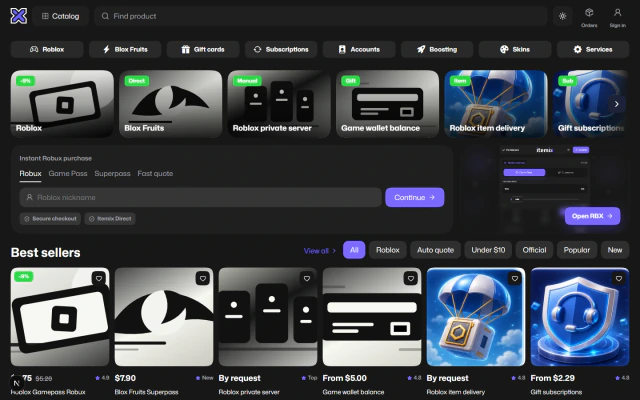
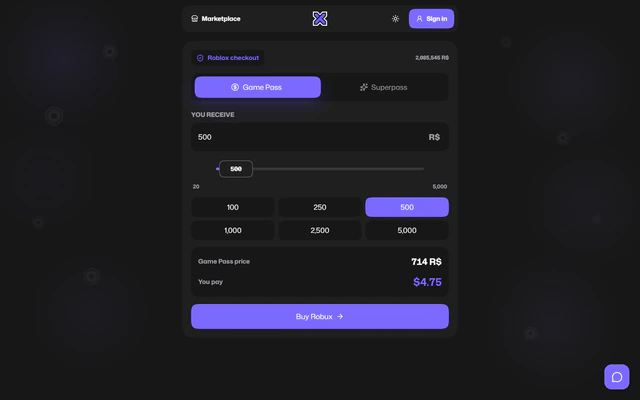
Replace outdated Itemix preview with current live RBX checkout

diff --git a/index.html b/index.html
@@ -3,7 +3,7 @@
 <head>
 <meta charset="utf-8"><meta name="viewport" content="width=device-width, initial-scale=1">
 <title>Никита Петров | Full-stack разработчик и автоматизация бизнеса</title><meta name="description" content="Ведущий Full-stack разработчик. Автоматизация бизнеса под ключ, веб-платформы и AI-интеграции. Itemix, Luvio, Beatprod, Silent Wallet.">
-<meta name="theme-color" content="#10131a"><meta property="og:title" content="Никита Петров | Full-stack разработчик и автоматизация бизнеса"><meta property="og:description" content="Ведущий Full-stack разработчик. Автоматизация бизнеса под ключ, веб-платформы и AI-интеграции. Itemix, Luvio, Beatprod, Silent Wallet."><meta property="og:type" content="website"><meta property="og:url" content="https://grekf3.github.io/"><meta property="og:image" content="https://grekf3.github.io/assets/social-preview.png"><meta name="twitter:card" content="summary_large_image">
+<meta name="theme-color" content="#10131a"><meta property="og:title" content="Никита Петров | Full-stack разработчик и автоматизация бизнеса"><meta property="og:description" content="Ведущий Full-stack разработчик. Автоматизация бизнеса под ключ, веб-платформы и AI-интеграции. Itemix, Luvio, Beatprod, Silent Wallet."><meta property="og:type" content="website"><meta property="og:url" content="https://grekf3.github.io/"><meta property="og:image" content="https://grekf3.github.io/assets/social-preview.png?v=20260916-rbx"><meta name="twitter:card" content="summary_large_image">
 <link rel="canonical" href="https://grekf3.github.io/"><link rel="alternate" hreflang="ru" href="https://grekf3.github.io/"><link rel="alternate" hreflang="en" href="https://grekf3.github.io/en/"><link rel="icon" href="/assets/favicon.png"><link rel="preload" as="font" href="/assets/fonts/onest-variable.woff2" type="font/woff2" crossorigin><link rel="stylesheet" href="/styles.css">
 <script>try{document.documentElement.dataset.theme=localStorage.getItem('portfolio-theme-v2')||'dark'}catch{}</script>
 
@@ -19,8 +19,8 @@
 <a class="skip-link" href="#main">К содержимому</a>
 <header class="site-header"><div class="shell nav-shell"><a class="brand" href="#top">Никита Петров<span class="brand-handle">/ GrekF3</span></a><nav id="main-nav" aria-label="Навигация"><a href="#work">Проекты</a><a href="#automation">Автоматизация</a><a href="#activity">GitHub</a><a href="#contact">Связаться</a></nav><div class="nav-controls"><a href="/en/" class="language" lang="en" aria-label="English version">EN</a><button id="theme-toggle" aria-label="Тема" type="button"><span aria-hidden="true">◐</span></button><button class="menu-toggle" type="button" aria-controls="main-nav" aria-expanded="false">Меню</button></div></div></header>
 <main id="main">
-<section class="hero shell" id="top"><div class="hero-copy"><p class="role">Lead Full-stack Developer</p><h1>Разработка продуктов.<br>Автоматизация бизнеса.</h1><p class="hero-intro">Создаю веб-продукты и автоматизирую работу бизнеса: продажи, CRM, контент и финансовые операции.</p><div class="hero-actions"><a class="button primary" href="#contact">Обсудить проект <span aria-hidden="true">↗</span></a><a class="button secondary" href="/downloads/Nikita-Petrov-CV.pdf" target="_blank" rel="noopener">Резюме PDF <span aria-hidden="true">↓</span></a></div><p class="experience">В разработке с 2022 года</p></div><div class="hero-showcase"><div class="showcase-tabs" role="group" aria-label="Выбрать продукт"><button type="button" data-showcase="itemix" aria-pressed="true">Itemix</button><button type="button" data-showcase="luvio" aria-pressed="false">Luvio</button><button type="button" data-showcase="beatprod" aria-pressed="false">Beatprod</button><button type="button" data-showcase="silent-wallet" aria-pressed="false">Silent</button></div><div class="showcase-stage"><a class="showcase-image" href="/assets/itemix.webp" data-image data-name="Itemix" aria-label="Itemix"><img id="showcase-img" src="/assets/itemix.webp" width="1440" height="900" alt="Itemix: Маркетплейс цифровых товаров" fetchpriority="high" decoding="async" srcset="/assets/itemix-640.webp 640w, /assets/itemix-960.webp 960w, /assets/itemix.webp 1440w" sizes="(max-width: 767px) calc(100vw - 40px), (max-width: 1023px) 736px, (max-width: 1440px) 43vw, 548px"></a><div class="showcase-caption"><div><strong id="showcase-title">Itemix</strong><p id="showcase-category">Маркетплейс цифровых товаров</p><p id="showcase-company">ITEMIX TECH LTD</p></div><a id="showcase-link" href="#itemix" class="text-link">Подробнее о проекте ↗</a></div></div></div></section>
-<section class="shell section work" id="work"><div class="section-heading" data-reveal><h2>Продукты, которые я веду</h2></div><article class="project" data-reveal id="itemix"><figure class="project-visual"><a class="image-link" href="/assets/itemix.webp" data-image data-name="Itemix" aria-label="Увеличить скриншот: Itemix"><img src="/assets/itemix.webp" width="1440" height="900" alt="Скриншот интерфейса: Itemix" loading="lazy" decoding="async" srcset="/assets/itemix-640.webp 640w, /assets/itemix-960.webp 960w, /assets/itemix.webp 1440w" sizes="(max-width: 767px) calc(100vw - 40px), (max-width: 1023px) 50vw, (max-width: 1440px) 52vw, 708px"></a><figcaption><span>Itemix</span><a href="/assets/itemix.webp" data-image data-name="Itemix">Увеличить скриншот <span aria-hidden="true">↗</span></a></figcaption></figure><div class="project-copy"><p class="project-category">Маркетплейс цифровых товаров</p><h3>Itemix</h3><p class="company">ITEMIX TECH LTD <span>· Ведущий разработчик</span></p><p class="project-summary">Витрина, кабинеты продавцов и управление заказами.</p><p>Связал поставщиков, каталог и оплату в единый процесс продажи. Автоматизировал обновление товаров и статусов заказов, добавил инструменты поддержки для менеджеров.</p><ul class="tags"><li>Python</li><li>Django</li><li>Next.js</li><li>PostgreSQL</li></ul><div class="project-links"><a class="text-link" href="https://itemix.co/" target="_blank" rel="noopener">itemix.co <span aria-hidden="true">↗</span></a></div></div></article><article class="project" data-reveal id="luvio"><figure class="project-visual"><a class="image-link" href="/assets/luvio.webp" data-image data-name="Luvio" aria-label="Увеличить скриншот: Luvio"><img src="/assets/luvio.webp" width="1440" height="900" alt="Скриншот интерфейса: Luvio" loading="lazy" decoding="async" srcset="/assets/luvio-640.webp 640w, /assets/luvio-960.webp 960w, /assets/luvio.webp 1440w" sizes="(max-width: 767px) calc(100vw - 40px), (max-width: 1023px) 50vw, (max-width: 1440px) 52vw, 708px"></a><figcaption><span>Luvio</span><a href="/assets/luvio.webp" data-image data-name="Luvio">Увеличить скриншот <span aria-hidden="true">↗</span></a></figcaption></figure><div class="project-copy"><p class="project-category">Платформа знакомств</p><h3>Luvio</h3><p class="company">LUVIO CLUB LIMITED <span>· Ведущий разработчик</span></p><p class="project-summary">От первой анкеты до совпадения и общения.</p><p>Разработал регистрацию, поиск, мэтчинг и чат. Внедрил AI-собеседников, сценарии общения, уведомления и инструменты модерации.</p><ul class="tags"><li>Python</li><li>Django</li><li>WebSocket</li><li>OpenAI API</li></ul><div class="project-links"><a class="text-link" href="https://luvio.club/" target="_blank" rel="noopener">luvio.club <span aria-hidden="true">↗</span></a></div></div></article><article class="project" data-reveal id="beatprod"><figure class="project-visual"><a class="image-link" href="/assets/beatprod.webp" data-image data-name="Beatprod" aria-label="Увеличить скриншот: Beatprod"><img src="/assets/beatprod.webp" width="1440" height="900" alt="Скриншот интерфейса: Beatprod" loading="lazy" decoding="async" srcset="/assets/beatprod-640.webp 640w, /assets/beatprod-960.webp 960w, /assets/beatprod.webp 1440w" sizes="(max-width: 767px) calc(100vw - 40px), (max-width: 1023px) 50vw, (max-width: 1440px) 52vw, 708px"></a><figcaption><span>Beatprod</span><a href="/assets/beatprod.webp" data-image data-name="Beatprod">Увеличить скриншот <span aria-hidden="true">↗</span></a></figcaption></figure><div class="project-copy"><p class="project-category">Маркетплейс для музыкантов</p><h3>Beatprod</h3><p class="company">Собственный продукт <span>· Ведущий разработчик</span></p><p class="project-summary">Продажа битов, сэмплов и музыкальных услуг.</p><p>Автоматизировал путь от оплаты до выдачи файлов и лицензий, подписки и распределение дохода. Добавил анализ аудио, AI-описания и создание видео для публикации на YouTube.</p><ul class="tags"><li>Python</li><li>Django</li><li>PostgreSQL</li><li>Stripe API</li></ul><div class="project-links"><a class="text-link" href="https://beatprod.com/" target="_blank" rel="noopener">beatprod.com <span aria-hidden="true">↗</span></a></div></div></article><article class="project" data-reveal id="silent-wallet"><figure class="project-visual"><a class="image-link" href="/assets/silent-wallet.webp" data-image data-name="Silent Wallet" aria-label="Увеличить скриншот: Silent Wallet"><img src="/assets/silent-wallet.webp" width="1440" height="900" alt="Скриншот интерфейса: Silent Wallet" loading="lazy" decoding="async" srcset="/assets/silent-wallet-640.webp 640w, /assets/silent-wallet-960.webp 960w, /assets/silent-wallet.webp 1440w" sizes="(max-width: 767px) calc(100vw - 40px), (max-width: 1023px) 50vw, (max-width: 1440px) 52vw, 708px"></a><figcaption><span>Silent Wallet</span><a href="/assets/silent-wallet.webp" data-image data-name="Silent Wallet">Увеличить скриншот <span aria-hidden="true">↗</span></a></figcaption></figure><div class="project-copy"><p class="project-category">Криптокошелёк с открытым кодом</p><h3>Silent Wallet</h3><p class="company">Собственный продукт <span>· Ведущий разработчик</span></p><p class="project-summary">Управление активами в пяти блокчейнах. Beta.</p><p>Разработал аккаунты, переводы, портфель и историю операций. Ключи хранятся локально в зашифрованном виде. В проекте есть обмены, мосты и оболочки для desktop и mobile.</p><ul class="tags"><li>TypeScript</li><li>Next.js</li><li>Tauri</li><li>Capacitor</li></ul><div class="project-links"><a class="text-link" href="https://swallet.site/" target="_blank" rel="noopener">swallet.site <span aria-hidden="true">↗</span></a><a class="text-link" href="https://github.com/GrekF3/Silent-Wallet">Исходный код ↗</a></div></div></article></section>
+<section class="hero shell" id="top"><div class="hero-copy"><p class="role">Lead Full-stack Developer</p><h1>Разработка продуктов.<br>Автоматизация бизнеса.</h1><p class="hero-intro">Создаю веб-продукты и автоматизирую работу бизнеса: продажи, CRM, контент и финансовые операции.</p><div class="hero-actions"><a class="button primary" href="#contact">Обсудить проект <span aria-hidden="true">↗</span></a><a class="button secondary" href="/downloads/Nikita-Petrov-CV.pdf" target="_blank" rel="noopener">Резюме PDF <span aria-hidden="true">↓</span></a></div><p class="experience">В разработке с 2022 года</p></div><div class="hero-showcase"><div class="showcase-tabs" role="group" aria-label="Выбрать продукт"><button type="button" data-showcase="itemix" aria-pressed="true">Itemix</button><button type="button" data-showcase="luvio" aria-pressed="false">Luvio</button><button type="button" data-showcase="beatprod" aria-pressed="false">Beatprod</button><button type="button" data-showcase="silent-wallet" aria-pressed="false">Silent</button></div><div class="showcase-stage"><a class="showcase-image" href="/assets/itemix.webp?v=20260916-rbx" data-image data-name="Itemix" aria-label="Itemix"><img id="showcase-img" src="/assets/itemix.webp?v=20260916-rbx" width="1440" height="900" alt="Itemix RBX: форма покупки Robux" fetchpriority="high" decoding="async" srcset="/assets/itemix-640.webp?v=20260916-rbx 640w, /assets/itemix-960.webp?v=20260916-rbx 960w, /assets/itemix.webp?v=20260916-rbx 1440w" sizes="(max-width: 767px) calc(100vw - 40px), (max-width: 1023px) 736px, (max-width: 1440px) 43vw, 548px"></a><div class="showcase-caption"><div><strong id="showcase-title">Itemix</strong><p id="showcase-category">Маркетплейс цифровых товаров</p><p id="showcase-company">ITEMIX TECH LTD</p></div><a id="showcase-link" href="#itemix" class="text-link">Подробнее о проекте ↗</a></div></div></div></section>
+<section class="shell section work" id="work"><div class="section-heading" data-reveal><h2>Продукты, которые я веду</h2></div><article class="project" data-reveal id="itemix"><figure class="project-visual"><a class="image-link" href="/assets/itemix.webp?v=20260916-rbx" data-image data-name="Itemix" aria-label="Увеличить скриншот: Itemix"><img src="/assets/itemix.webp?v=20260916-rbx" width="1440" height="900" alt="Itemix RBX: форма покупки Robux" loading="lazy" decoding="async" srcset="/assets/itemix-640.webp?v=20260916-rbx 640w, /assets/itemix-960.webp?v=20260916-rbx 960w, /assets/itemix.webp?v=20260916-rbx 1440w" sizes="(max-width: 767px) calc(100vw - 40px), (max-width: 1023px) 50vw, (max-width: 1440px) 52vw, 708px"></a><figcaption><span>Itemix · RBX</span><a href="/assets/itemix.webp?v=20260916-rbx" data-image data-name="Itemix">Увеличить скриншот <span aria-hidden="true">↗</span></a></figcaption></figure><div class="project-copy"><p class="project-category">Маркетплейс цифровых товаров</p><h3>Itemix</h3><p class="company">ITEMIX TECH LTD <span>· Ведущий разработчик</span></p><p class="project-summary">Витрина, кабинеты продавцов и управление заказами.</p><p>Связал поставщиков, каталог и оплату в единый процесс продажи. Автоматизировал обновление товаров и статусов заказов, добавил инструменты поддержки для менеджеров.</p><ul class="tags"><li>Python</li><li>Django</li><li>Next.js</li><li>PostgreSQL</li></ul><div class="project-links"><a class="text-link" href="https://itemix.co/" target="_blank" rel="noopener">itemix.co <span aria-hidden="true">↗</span></a></div></div></article><article class="project" data-reveal id="luvio"><figure class="project-visual"><a class="image-link" href="/assets/luvio.webp" data-image data-name="Luvio" aria-label="Увеличить скриншот: Luvio"><img src="/assets/luvio.webp" width="1440" height="900" alt="Скриншот интерфейса: Luvio" loading="lazy" decoding="async" srcset="/assets/luvio-640.webp 640w, /assets/luvio-960.webp 960w, /assets/luvio.webp 1440w" sizes="(max-width: 767px) calc(100vw - 40px), (max-width: 1023px) 50vw, (max-width: 1440px) 52vw, 708px"></a><figcaption><span>Luvio</span><a href="/assets/luvio.webp" data-image data-name="Luvio">Увеличить скриншот <span aria-hidden="true">↗</span></a></figcaption></figure><div class="project-copy"><p class="project-category">Платформа знакомств</p><h3>Luvio</h3><p class="company">LUVIO CLUB LIMITED <span>· Ведущий разработчик</span></p><p class="project-summary">От первой анкеты до совпадения и общения.</p><p>Разработал регистрацию, поиск, мэтчинг и чат. Внедрил AI-собеседников, сценарии общения, уведомления и инструменты модерации.</p><ul class="tags"><li>Python</li><li>Django</li><li>WebSocket</li><li>OpenAI API</li></ul><div class="project-links"><a class="text-link" href="https://luvio.club/" target="_blank" rel="noopener">luvio.club <span aria-hidden="true">↗</span></a></div></div></article><article class="project" data-reveal id="beatprod"><figure class="project-visual"><a class="image-link" href="/assets/beatprod.webp" data-image data-name="Beatprod" aria-label="Увеличить скриншот: Beatprod"><img src="/assets/beatprod.webp" width="1440" height="900" alt="Скриншот интерфейса: Beatprod" loading="lazy" decoding="async" srcset="/assets/beatprod-640.webp 640w, /assets/beatprod-960.webp 960w, /assets/beatprod.webp 1440w" sizes="(max-width: 767px) calc(100vw - 40px), (max-width: 1023px) 50vw, (max-width: 1440px) 52vw, 708px"></a><figcaption><span>Beatprod</span><a href="/assets/beatprod.webp" data-image data-name="Beatprod">Увеличить скриншот <span aria-hidden="true">↗</span></a></figcaption></figure><div class="project-copy"><p class="project-category">Маркетплейс для музыкантов</p><h3>Beatprod</h3><p class="company">Собственный продукт <span>· Ведущий разработчик</span></p><p class="project-summary">Продажа битов, сэмплов и музыкальных услуг.</p><p>Автоматизировал путь от оплаты до выдачи файлов и лицензий, подписки и распределение дохода. Добавил анализ аудио, AI-описания и создание видео для публикации на YouTube.</p><ul class="tags"><li>Python</li><li>Django</li><li>PostgreSQL</li><li>Stripe API</li></ul><div class="project-links"><a class="text-link" href="https://beatprod.com/" target="_blank" rel="noopener">beatprod.com <span aria-hidden="true">↗</span></a></div></div></article><article class="project" data-reveal id="silent-wallet"><figure class="project-visual"><a class="image-link" href="/assets/silent-wallet.webp" data-image data-name="Silent Wallet" aria-label="Увеличить скриншот: Silent Wallet"><img src="/assets/silent-wallet.webp" width="1440" height="900" alt="Скриншот интерфейса: Silent Wallet" loading="lazy" decoding="async" srcset="/assets/silent-wallet-640.webp 640w, /assets/silent-wallet-960.webp 960w, /assets/silent-wallet.webp 1440w" sizes="(max-width: 767px) calc(100vw - 40px), (max-width: 1023px) 50vw, (max-width: 1440px) 52vw, 708px"></a><figcaption><span>Silent Wallet</span><a href="/assets/silent-wallet.webp" data-image data-name="Silent Wallet">Увеличить скриншот <span aria-hidden="true">↗</span></a></figcaption></figure><div class="project-copy"><p class="project-category">Криптокошелёк с открытым кодом</p><h3>Silent Wallet</h3><p class="company">Собственный продукт <span>· Ведущий разработчик</span></p><p class="project-summary">Управление активами в пяти блокчейнах. Beta.</p><p>Разработал аккаунты, переводы, портфель и историю операций. Ключи хранятся локально в зашифрованном виде. В проекте есть обмены, мосты и оболочки для desktop и mobile.</p><ul class="tags"><li>TypeScript</li><li>Next.js</li><li>Tauri</li><li>Capacitor</li></ul><div class="project-links"><a class="text-link" href="https://swallet.site/" target="_blank" rel="noopener">swallet.site <span aria-hidden="true">↗</span></a><a class="text-link" href="https://github.com/GrekF3/Silent-Wallet">Исходный код ↗</a></div></div></article></section>
 <section class="section automation" id="automation"><div class="shell"><div class="section-heading" data-reveal><h2>Автоматизация под ключ</h2><p>Продажи, CRM, контент и финансовые операции.</p></div><article class="project news" data-reveal><figure class="project-visual"><a class="image-link" href="/assets/theone-news.webp" data-image data-name="theOne News" aria-label="Увеличить скриншот: theOne News"><img src="/assets/theone-news.webp" width="1440" height="900" alt="Скриншот интерфейса: theOne News" loading="lazy" decoding="async" srcset="/assets/theone-news-640.webp 640w, /assets/theone-news-960.webp 960w, /assets/theone-news.webp 1440w" sizes="(max-width: 767px) calc(100vw - 40px), (max-width: 1023px) 50vw, (max-width: 1440px) 52vw, 708px"></a><figcaption><span>theOne News</span><a href="/assets/theone-news.webp" data-image data-name="theOne News">Увеличить скриншот <span aria-hidden="true">↗</span></a></figcaption></figure><div class="project-copy"><p class="project-category">Сбор и подготовка новостей</p><h3>theOne News</h3><p>Разработал рабочее место редактора: система собирает материалы с сайтов, из новостных лент, Telegram, Facebook и Instagram, в том числе через браузер.</p><p>Удаляет дубли, проверяет материалы по правилам, переводит и перерабатывает текст с AI. Редактор получает готовый к проверке материал с заголовком, медиа и ссылками на источники.</p><ul class="tags"><li>Python</li><li>FastAPI</li><li>Playwright</li><li>OpenAI API</li></ul></div></article><div class="automation-more" data-reveal><article><h3>Работа с CRM-системами</h3><p>Автоматизировал обновление карточек клиентов, удаление дублей, распределение заявок и синхронизацию с таблицами. Комментарии и данные менеджеров сохраняются.</p><ul class="tags"><li>JavaScript</li><li>REST API</li><li>Google Sheets API</li></ul></article><article><h3>Криптовалютные продукты</h3><p>Разработал торговые терминалы, сканеры рынка и ботов. Объединил стратегии, позиции и сделки в интерфейсах с автоматизацией операций и контролем рисков.</p><ul class="tags"><li>Python</li><li>FastAPI</li><li>React</li><li>Electron</li><li>WebSocket</li></ul></article></div></div></section>
 <section class="section shell" id="activity"><div class="section-heading" data-reveal><h2>Разработка в цифрах</h2><p>Активность из публичного профиля GitHub.</p></div><div class="activity-layout"><div class="stats-summary"><div class="stat"><strong id="contribution-total">1 806</strong><span>действий за период</span></div><div class="stat"><strong id="active-days">253</strong><span>дней с активностью</span></div><p id="stats-period">14.09.2025 - 16.09.2026</p><a class="text-link" href="https://github.com/GrekF3">Профиль GitHub ↗</a></div><div class="activity-charts"><div class="chart-tabs" role="group" aria-label="GitHub"><button data-chart="calendar" aria-pressed="true">Календарь</button><button data-chart="months" aria-pressed="false">По месяцам</button></div><div id="chart-calendar" class="chart-panel"><a href="https://github.com/GrekF3" class="dynamic-chart" aria-label="Годовой календарь GitHub, прокрутка по горизонтали"><img id="activity-graph" src="/assets/github-activity.svg" data-live-src="https://ghchart.rshah.org/2459e0/GrekF3" alt="Публичный календарь GitHub" width="663" height="104" loading="lazy"></a><p class="chart-credit"><a href="https://github.com/2016rshah/githubchart-api">GitHub Chart ↗</a></p></div><div id="chart-months" class="chart-panel" hidden><div id="monthly-chart"></div></div><p class="stats-note">Contributions: коммиты, pull request, issues и другая активность GitHub. Включена обезличенная активность приватных проектов.</p><noscript><p>Актуальная активность доступна в профиле GitHub.</p></noscript></div></div></section>
 <section class="section shell stack-section" id="stack"><div class="section-heading" data-reveal><h2>Рабочий стек</h2><p>Технологии, на которых построены эти продукты.</p></div><dl class="stack-list" data-reveal><div><dt>Backend</dt><dd>Python, Django, Django REST Framework, FastAPI, PostgreSQL, Redis, Celery</dd></div><div><dt>Frontend</dt><dd>TypeScript, React, Next.js</dd></div><div><dt>Интеграции и запуск</dt><dd>REST API, WebSocket, OpenAI API, Telegram Bot API, Playwright, Docker, Nginx, GitHub Actions</dd></div></dl></section>

diff --git a/en/index.html b/en/index.html
@@ -3,7 +3,7 @@
 <head>
 <meta charset="utf-8"><meta name="viewport" content="width=device-width, initial-scale=1">
 <title>Nikita Petrov | Full-stack development & business automation</title><meta name="description" content="Lead Full-stack Developer. End-to-end business automation, web platforms and AI integrations. Itemix, Luvio, Beatprod, Silent Wallet.">
-<meta name="theme-color" content="#10131a"><meta property="og:title" content="Nikita Petrov | Full-stack development & business automation"><meta property="og:description" content="Lead Full-stack Developer. End-to-end business automation, web platforms and AI integrations. Itemix, Luvio, Beatprod, Silent Wallet."><meta property="og:type" content="website"><meta property="og:url" content="https://grekf3.github.io/en/"><meta property="og:image" content="https://grekf3.github.io/assets/social-preview.png"><meta name="twitter:card" content="summary_large_image">
+<meta name="theme-color" content="#10131a"><meta property="og:title" content="Nikita Petrov | Full-stack development & business automation"><meta property="og:description" content="Lead Full-stack Developer. End-to-end business automation, web platforms and AI integrations. Itemix, Luvio, Beatprod, Silent Wallet."><meta property="og:type" content="website"><meta property="og:url" content="https://grekf3.github.io/en/"><meta property="og:image" content="https://grekf3.github.io/assets/social-preview.png?v=20260916-rbx"><meta name="twitter:card" content="summary_large_image">
 <link rel="canonical" href="https://grekf3.github.io/en/"><link rel="alternate" hreflang="ru" href="https://grekf3.github.io/"><link rel="alternate" hreflang="en" href="https://grekf3.github.io/en/"><link rel="icon" href="/assets/favicon.png"><link rel="preload" as="font" href="/assets/fonts/onest-variable.woff2" type="font/woff2" crossorigin><link rel="stylesheet" href="/styles.css">
 <script>try{document.documentElement.dataset.theme=localStorage.getItem('portfolio-theme-v2')||'dark'}catch{}</script>
 
@@ -19,8 +19,8 @@
 <a class="skip-link" href="#main">Skip to content</a>
 <header class="site-header"><div class="shell nav-shell"><a class="brand" href="#top">Nikita Petrov<span class="brand-handle">/ GrekF3</span></a><nav id="main-nav" aria-label="Navigation"><a href="#work">Products</a><a href="#automation">Automation</a><a href="#activity">GitHub</a><a href="#contact">Contact</a></nav><div class="nav-controls"><a href="/" class="language" lang="ru" aria-label="Русская версия">RU</a><button id="theme-toggle" aria-label="Theme" type="button"><span aria-hidden="true">◐</span></button><button class="menu-toggle" type="button" aria-controls="main-nav" aria-expanded="false">Menu</button></div></div></header>
 <main id="main">
-<section class="hero shell" id="top"><div class="hero-copy"><p class="role">Lead Full-stack Developer</p><h1>Product development.<br>Business automation.</h1><p class="hero-intro">I build web products and automate sales, CRM, content workflows and financial operations.</p><div class="hero-actions"><a class="button primary" href="#contact">Discuss a project <span aria-hidden="true">↗</span></a><a class="button secondary" href="/downloads/Nikita-Petrov-CV.pdf" target="_blank" rel="noopener">Resume PDF · RU <span aria-hidden="true">↓</span></a></div><p class="experience">Building software since 2022</p></div><div class="hero-showcase"><div class="showcase-tabs" role="group" aria-label="Choose a product"><button type="button" data-showcase="itemix" aria-pressed="true">Itemix</button><button type="button" data-showcase="luvio" aria-pressed="false">Luvio</button><button type="button" data-showcase="beatprod" aria-pressed="false">Beatprod</button><button type="button" data-showcase="silent-wallet" aria-pressed="false">Silent</button></div><div class="showcase-stage"><a class="showcase-image" href="/assets/itemix.webp" data-image data-name="Itemix" aria-label="Itemix"><img id="showcase-img" src="/assets/itemix.webp" width="1440" height="900" alt="Itemix: Digital goods marketplace" fetchpriority="high" decoding="async" srcset="/assets/itemix-640.webp 640w, /assets/itemix-960.webp 960w, /assets/itemix.webp 1440w" sizes="(max-width: 767px) calc(100vw - 40px), (max-width: 1023px) 736px, (max-width: 1440px) 43vw, 548px"></a><div class="showcase-caption"><div><strong id="showcase-title">Itemix</strong><p id="showcase-category">Digital goods marketplace</p><p id="showcase-company">ITEMIX TECH LTD</p></div><a id="showcase-link" href="#itemix" class="text-link">View project ↗</a></div></div></div></section>
-<section class="shell section work" id="work"><div class="section-heading" data-reveal><h2>Products I lead</h2></div><article class="project" data-reveal id="itemix"><figure class="project-visual"><a class="image-link" href="/assets/itemix.webp" data-image data-name="Itemix" aria-label="Enlarge screenshot: Itemix"><img src="/assets/itemix.webp" width="1440" height="900" alt="Product screenshot: Itemix" loading="lazy" decoding="async" srcset="/assets/itemix-640.webp 640w, /assets/itemix-960.webp 960w, /assets/itemix.webp 1440w" sizes="(max-width: 767px) calc(100vw - 40px), (max-width: 1023px) 50vw, (max-width: 1440px) 52vw, 708px"></a><figcaption><span>Itemix</span><a href="/assets/itemix.webp" data-image data-name="Itemix">Enlarge screenshot <span aria-hidden="true">↗</span></a></figcaption></figure><div class="project-copy"><p class="project-category">Digital goods marketplace</p><h3>Itemix</h3><p class="company">ITEMIX TECH LTD <span>· Lead Developer</span></p><p class="project-summary">Storefront, seller accounts and order management.</p><p>Connected suppliers, catalog and payments into one sales workflow. Automated product and order updates and built support tools for the operations team.</p><ul class="tags"><li>Python</li><li>Django</li><li>Next.js</li><li>PostgreSQL</li></ul><div class="project-links"><a class="text-link" href="https://itemix.co/" target="_blank" rel="noopener">itemix.co <span aria-hidden="true">↗</span></a></div></div></article><article class="project" data-reveal id="luvio"><figure class="project-visual"><a class="image-link" href="/assets/luvio.webp" data-image data-name="Luvio" aria-label="Enlarge screenshot: Luvio"><img src="/assets/luvio.webp" width="1440" height="900" alt="Product screenshot: Luvio" loading="lazy" decoding="async" srcset="/assets/luvio-640.webp 640w, /assets/luvio-960.webp 960w, /assets/luvio.webp 1440w" sizes="(max-width: 767px) calc(100vw - 40px), (max-width: 1023px) 50vw, (max-width: 1440px) 52vw, 708px"></a><figcaption><span>Luvio</span><a href="/assets/luvio.webp" data-image data-name="Luvio">Enlarge screenshot <span aria-hidden="true">↗</span></a></figcaption></figure><div class="project-copy"><p class="project-category">Dating platform</p><h3>Luvio</h3><p class="company">LUVIO CLUB LIMITED <span>· Lead Developer</span></p><p class="project-summary">From the first profile to matching and conversation.</p><p>Built onboarding, discovery, matching and real-time chat. Added AI companions, conversation workflows, notifications and moderation tools.</p><ul class="tags"><li>Python</li><li>Django</li><li>WebSocket</li><li>OpenAI API</li></ul><div class="project-links"><a class="text-link" href="https://luvio.club/" target="_blank" rel="noopener">luvio.club <span aria-hidden="true">↗</span></a></div></div></article><article class="project" data-reveal id="beatprod"><figure class="project-visual"><a class="image-link" href="/assets/beatprod.webp" data-image data-name="Beatprod" aria-label="Enlarge screenshot: Beatprod"><img src="/assets/beatprod.webp" width="1440" height="900" alt="Product screenshot: Beatprod" loading="lazy" decoding="async" srcset="/assets/beatprod-640.webp 640w, /assets/beatprod-960.webp 960w, /assets/beatprod.webp 1440w" sizes="(max-width: 767px) calc(100vw - 40px), (max-width: 1023px) 50vw, (max-width: 1440px) 52vw, 708px"></a><figcaption><span>Beatprod</span><a href="/assets/beatprod.webp" data-image data-name="Beatprod">Enlarge screenshot <span aria-hidden="true">↗</span></a></figcaption></figure><div class="project-copy"><p class="project-category">Music marketplace</p><h3>Beatprod</h3><p class="company">Own product <span>· Lead Developer</span></p><p class="project-summary">Beats, sample packs and music services.</p><p>Automated payments, file and license delivery, subscriptions and revenue sharing. Added audio analysis, AI descriptions and video creation for YouTube publishing.</p><ul class="tags"><li>Python</li><li>Django</li><li>PostgreSQL</li><li>Stripe API</li></ul><div class="project-links"><a class="text-link" href="https://beatprod.com/" target="_blank" rel="noopener">beatprod.com <span aria-hidden="true">↗</span></a></div></div></article><article class="project" data-reveal id="silent-wallet"><figure class="project-visual"><a class="image-link" href="/assets/silent-wallet.webp" data-image data-name="Silent Wallet" aria-label="Enlarge screenshot: Silent Wallet"><img src="/assets/silent-wallet.webp" width="1440" height="900" alt="Product screenshot: Silent Wallet" loading="lazy" decoding="async" srcset="/assets/silent-wallet-640.webp 640w, /assets/silent-wallet-960.webp 960w, /assets/silent-wallet.webp 1440w" sizes="(max-width: 767px) calc(100vw - 40px), (max-width: 1023px) 50vw, (max-width: 1440px) 52vw, 708px"></a><figcaption><span>Silent Wallet</span><a href="/assets/silent-wallet.webp" data-image data-name="Silent Wallet">Enlarge screenshot <span aria-hidden="true">↗</span></a></figcaption></figure><div class="project-copy"><p class="project-category">Open-source crypto wallet</p><h3>Silent Wallet</h3><p class="company">Own product <span>· Lead Developer</span></p><p class="project-summary">Asset management across five blockchains. Beta.</p><p>Built accounts, transfers, portfolio tracking and transaction history. Keys are encrypted locally. The project includes swaps, bridges, and desktop and mobile shells.</p><ul class="tags"><li>TypeScript</li><li>Next.js</li><li>Tauri</li><li>Capacitor</li></ul><div class="project-links"><a class="text-link" href="https://swallet.site/" target="_blank" rel="noopener">swallet.site <span aria-hidden="true">↗</span></a><a class="text-link" href="https://github.com/GrekF3/Silent-Wallet">Source code ↗</a></div></div></article></section>
+<section class="hero shell" id="top"><div class="hero-copy"><p class="role">Lead Full-stack Developer</p><h1>Product development.<br>Business automation.</h1><p class="hero-intro">I build web products and automate sales, CRM, content workflows and financial operations.</p><div class="hero-actions"><a class="button primary" href="#contact">Discuss a project <span aria-hidden="true">↗</span></a><a class="button secondary" href="/downloads/Nikita-Petrov-CV.pdf" target="_blank" rel="noopener">Resume PDF · RU <span aria-hidden="true">↓</span></a></div><p class="experience">Building software since 2022</p></div><div class="hero-showcase"><div class="showcase-tabs" role="group" aria-label="Choose a product"><button type="button" data-showcase="itemix" aria-pressed="true">Itemix</button><button type="button" data-showcase="luvio" aria-pressed="false">Luvio</button><button type="button" data-showcase="beatprod" aria-pressed="false">Beatprod</button><button type="button" data-showcase="silent-wallet" aria-pressed="false">Silent</button></div><div class="showcase-stage"><a class="showcase-image" href="/assets/itemix.webp?v=20260916-rbx" data-image data-name="Itemix" aria-label="Itemix"><img id="showcase-img" src="/assets/itemix.webp?v=20260916-rbx" width="1440" height="900" alt="Itemix RBX: Robux checkout" fetchpriority="high" decoding="async" srcset="/assets/itemix-640.webp?v=20260916-rbx 640w, /assets/itemix-960.webp?v=20260916-rbx 960w, /assets/itemix.webp?v=20260916-rbx 1440w" sizes="(max-width: 767px) calc(100vw - 40px), (max-width: 1023px) 736px, (max-width: 1440px) 43vw, 548px"></a><div class="showcase-caption"><div><strong id="showcase-title">Itemix</strong><p id="showcase-category">Digital goods marketplace</p><p id="showcase-company">ITEMIX TECH LTD</p></div><a id="showcase-link" href="#itemix" class="text-link">View project ↗</a></div></div></div></section>
+<section class="shell section work" id="work"><div class="section-heading" data-reveal><h2>Products I lead</h2></div><article class="project" data-reveal id="itemix"><figure class="project-visual"><a class="image-link" href="/assets/itemix.webp?v=20260916-rbx" data-image data-name="Itemix" aria-label="Enlarge screenshot: Itemix"><img src="/assets/itemix.webp?v=20260916-rbx" width="1440" height="900" alt="Itemix RBX: Robux checkout" loading="lazy" decoding="async" srcset="/assets/itemix-640.webp?v=20260916-rbx 640w, /assets/itemix-960.webp?v=20260916-rbx 960w, /assets/itemix.webp?v=20260916-rbx 1440w" sizes="(max-width: 767px) calc(100vw - 40px), (max-width: 1023px) 50vw, (max-width: 1440px) 52vw, 708px"></a><figcaption><span>Itemix · RBX</span><a href="/assets/itemix.webp?v=20260916-rbx" data-image data-name="Itemix">Enlarge screenshot <span aria-hidden="true">↗</span></a></figcaption></figure><div class="project-copy"><p class="project-category">Digital goods marketplace</p><h3>Itemix</h3><p class="company">ITEMIX TECH LTD <span>· Lead Developer</span></p><p class="project-summary">Storefront, seller accounts and order management.</p><p>Connected suppliers, catalog and payments into one sales workflow. Automated product and order updates and built support tools for the operations team.</p><ul class="tags"><li>Python</li><li>Django</li><li>Next.js</li><li>PostgreSQL</li></ul><div class="project-links"><a class="text-link" href="https://itemix.co/" target="_blank" rel="noopener">itemix.co <span aria-hidden="true">↗</span></a></div></div></article><article class="project" data-reveal id="luvio"><figure class="project-visual"><a class="image-link" href="/assets/luvio.webp" data-image data-name="Luvio" aria-label="Enlarge screenshot: Luvio"><img src="/assets/luvio.webp" width="1440" height="900" alt="Product screenshot: Luvio" loading="lazy" decoding="async" srcset="/assets/luvio-640.webp 640w, /assets/luvio-960.webp 960w, /assets/luvio.webp 1440w" sizes="(max-width: 767px) calc(100vw - 40px), (max-width: 1023px) 50vw, (max-width: 1440px) 52vw, 708px"></a><figcaption><span>Luvio</span><a href="/assets/luvio.webp" data-image data-name="Luvio">Enlarge screenshot <span aria-hidden="true">↗</span></a></figcaption></figure><div class="project-copy"><p class="project-category">Dating platform</p><h3>Luvio</h3><p class="company">LUVIO CLUB LIMITED <span>· Lead Developer</span></p><p class="project-summary">From the first profile to matching and conversation.</p><p>Built onboarding, discovery, matching and real-time chat. Added AI companions, conversation workflows, notifications and moderation tools.</p><ul class="tags"><li>Python</li><li>Django</li><li>WebSocket</li><li>OpenAI API</li></ul><div class="project-links"><a class="text-link" href="https://luvio.club/" target="_blank" rel="noopener">luvio.club <span aria-hidden="true">↗</span></a></div></div></article><article class="project" data-reveal id="beatprod"><figure class="project-visual"><a class="image-link" href="/assets/beatprod.webp" data-image data-name="Beatprod" aria-label="Enlarge screenshot: Beatprod"><img src="/assets/beatprod.webp" width="1440" height="900" alt="Product screenshot: Beatprod" loading="lazy" decoding="async" srcset="/assets/beatprod-640.webp 640w, /assets/beatprod-960.webp 960w, /assets/beatprod.webp 1440w" sizes="(max-width: 767px) calc(100vw - 40px), (max-width: 1023px) 50vw, (max-width: 1440px) 52vw, 708px"></a><figcaption><span>Beatprod</span><a href="/assets/beatprod.webp" data-image data-name="Beatprod">Enlarge screenshot <span aria-hidden="true">↗</span></a></figcaption></figure><div class="project-copy"><p class="project-category">Music marketplace</p><h3>Beatprod</h3><p class="company">Own product <span>· Lead Developer</span></p><p class="project-summary">Beats, sample packs and music services.</p><p>Automated payments, file and license delivery, subscriptions and revenue sharing. Added audio analysis, AI descriptions and video creation for YouTube publishing.</p><ul class="tags"><li>Python</li><li>Django</li><li>PostgreSQL</li><li>Stripe API</li></ul><div class="project-links"><a class="text-link" href="https://beatprod.com/" target="_blank" rel="noopener">beatprod.com <span aria-hidden="true">↗</span></a></div></div></article><article class="project" data-reveal id="silent-wallet"><figure class="project-visual"><a class="image-link" href="/assets/silent-wallet.webp" data-image data-name="Silent Wallet" aria-label="Enlarge screenshot: Silent Wallet"><img src="/assets/silent-wallet.webp" width="1440" height="900" alt="Product screenshot: Silent Wallet" loading="lazy" decoding="async" srcset="/assets/silent-wallet-640.webp 640w, /assets/silent-wallet-960.webp 960w, /assets/silent-wallet.webp 1440w" sizes="(max-width: 767px) calc(100vw - 40px), (max-width: 1023px) 50vw, (max-width: 1440px) 52vw, 708px"></a><figcaption><span>Silent Wallet</span><a href="/assets/silent-wallet.webp" data-image data-name="Silent Wallet">Enlarge screenshot <span aria-hidden="true">↗</span></a></figcaption></figure><div class="project-copy"><p class="project-category">Open-source crypto wallet</p><h3>Silent Wallet</h3><p class="company">Own product <span>· Lead Developer</span></p><p class="project-summary">Asset management across five blockchains. Beta.</p><p>Built accounts, transfers, portfolio tracking and transaction history. Keys are encrypted locally. The project includes swaps, bridges, and desktop and mobile shells.</p><ul class="tags"><li>TypeScript</li><li>Next.js</li><li>Tauri</li><li>Capacitor</li></ul><div class="project-links"><a class="text-link" href="https://swallet.site/" target="_blank" rel="noopener">swallet.site <span aria-hidden="true">↗</span></a><a class="text-link" href="https://github.com/GrekF3/Silent-Wallet">Source code ↗</a></div></div></article></section>
 <section class="section automation" id="automation"><div class="shell"><div class="section-heading" data-reveal><h2>End-to-end automation</h2><p>Sales, CRM, content and financial operations.</p></div><article class="project news" data-reveal><figure class="project-visual"><a class="image-link" href="/assets/theone-news.webp" data-image data-name="theOne News" aria-label="Enlarge screenshot: theOne News"><img src="/assets/theone-news.webp" width="1440" height="900" alt="Product screenshot: theOne News" loading="lazy" decoding="async" srcset="/assets/theone-news-640.webp 640w, /assets/theone-news-960.webp 960w, /assets/theone-news.webp 1440w" sizes="(max-width: 767px) calc(100vw - 40px), (max-width: 1023px) 50vw, (max-width: 1440px) 52vw, 708px"></a><figcaption><span>theOne News</span><a href="/assets/theone-news.webp" data-image data-name="theOne News">Enlarge screenshot <span aria-hidden="true">↗</span></a></figcaption></figure><div class="project-copy"><p class="project-category">News collection and editorial workflow</p><h3>theOne News</h3><p>Built an editorial workspace that collects stories from websites, news feeds, Telegram, Facebook and Instagram, including through browser workflows.</p><p>It removes duplicates, checks content against rules, translates and rewrites with AI. Editors get a story ready for review, with a headline, media and source links.</p><ul class="tags"><li>Python</li><li>FastAPI</li><li>Playwright</li><li>OpenAI API</li></ul></div></article><div class="automation-more" data-reveal><article><h3>CRM workflows</h3><p>Automated customer record updates, deduplication, lead assignment and spreadsheet synchronization while preserving the operations team’s notes and data.</p><ul class="tags"><li>JavaScript</li><li>REST API</li><li>Google Sheets API</li></ul></article><article><h3>Crypto products</h3><p>Built trading terminals, market scanners and bots. Brought strategies, positions and trades into interfaces with automated execution and risk controls.</p><ul class="tags"><li>Python</li><li>FastAPI</li><li>React</li><li>Electron</li><li>WebSocket</li></ul></article></div></div></section>
 <section class="section shell" id="activity"><div class="section-heading" data-reveal><h2>Development in numbers</h2><p>Activity from my public GitHub profile.</p></div><div class="activity-layout"><div class="stats-summary"><div class="stat"><strong id="contribution-total">1 806</strong><span>contributions in this period</span></div><div class="stat"><strong id="active-days">253</strong><span>days with activity</span></div><p id="stats-period">14.09.2025 - 16.09.2026</p><a class="text-link" href="https://github.com/GrekF3">GitHub profile ↗</a></div><div class="activity-charts"><div class="chart-tabs" role="group" aria-label="GitHub"><button data-chart="calendar" aria-pressed="true">Calendar</button><button data-chart="months" aria-pressed="false">By month</button></div><div id="chart-calendar" class="chart-panel"><a href="https://github.com/GrekF3" class="dynamic-chart" aria-label="Yearly GitHub calendar, scroll horizontally"><img id="activity-graph" src="/assets/github-activity.svg" data-live-src="https://ghchart.rshah.org/2459e0/GrekF3" alt="Public GitHub calendar" width="663" height="104" loading="lazy"></a><p class="chart-credit"><a href="https://github.com/2016rshah/githubchart-api">GitHub Chart ↗</a></p></div><div id="chart-months" class="chart-panel" hidden><div id="monthly-chart"></div></div><p class="stats-note">Contributions include commits, pull requests, issues and other GitHub activity, including anonymized private contributions.</p><noscript><p>Current activity is available on my GitHub profile.</p></noscript></div></div></section>
 <section class="section shell stack-section" id="stack"><div class="section-heading" data-reveal><h2>Working stack</h2><p>The technologies behind these products.</p></div><dl class="stack-list" data-reveal><div><dt>Backend</dt><dd>Python, Django, Django REST Framework, FastAPI, PostgreSQL, Redis, Celery</dd></div><div><dt>Frontend</dt><dd>TypeScript, React, Next.js</dd></div><div><dt>Integrations & delivery</dt><dd>REST API, WebSocket, OpenAI API, Telegram Bot API, Playwright, Docker, Nginx, GitHub Actions</dd></div></dl></section>
